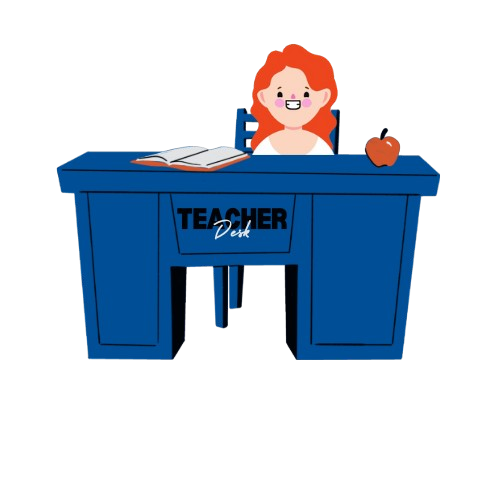
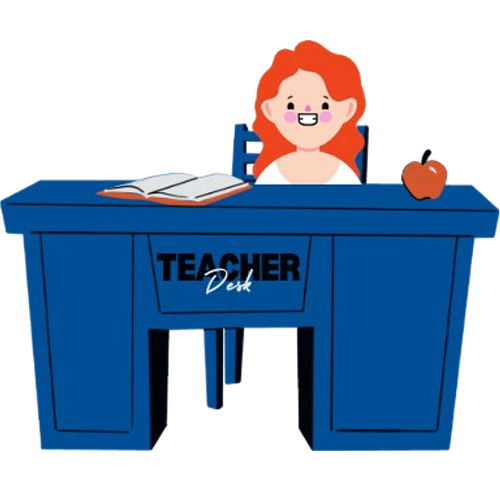
COrreção-Responsividade
Tentei arrumar a responsividade, mas o Header ficou menor e a escrita esta muito pra esquerda, estou ajustando ainda

diff --git a/app/home/page.tsx b/app/home/page.tsx
@@ -31,6 +31,7 @@ interface Item {
 const Home = () => {
   const router = useRouter();
   const [searchQuery, setSearchQuery] = useState("");
+  const [isSidebarOpen, setIsSidebarOpen] = useState(true);
 
   // Data atual formatada
   const currentDate = new Date().toLocaleDateString("pt-BR", {
@@ -41,15 +42,15 @@ const Home = () => {
   const userName = "Cris";
 
   const items: Item[] = [
-    { name: "Quizzes", icon: <FaQuestionCircle size={30} />, route: "/quizzes", description: "Crie Quizzes para seus alunos" },
-    { name: "Enquetes", icon: <FaPoll size={30} />, route: "/enquete", description: "Faça uma votação em sala de aula" },
-    { name: "Relatórios", icon: <FaFileAlt size={30} />, route: "/relatorios", description: "Gerencie participação com relatórios" },
-    { name: "Sorteador", icon: <FaRandom size={30} />, route: "/sorteador", description: "Sorteie grupos, alunos ou números" },
-    { name: "Tutoriais", icon: <FaChalkboardTeacher size={30} />, route: "/tutoriais", description: "Veja tutoriais disponíveis" },
-    { name: "Calendário", icon: <FaCalendarAlt size={30} />, route: "/calendario", description: "Gerencie compromissos" },
-    { name: "Modelos", icon: <FaTable size={30} />, route: "/modelos", description: "Acesse modelos personalizados" },
-    { name: "Bibliografia", icon: <FaBook size={30} />, route: "/bibliografia", description: "Adicione livros e sites" },
-    { name: "Diário de Plano de aulas", icon: <FaClipboardList size={30} />, route: "/plano-aulas", description: "Gerencie seu plano de aulas" }
+    { name: "Quizzes", icon: <FaQuestionCircle size={24} />, route: "/quizzes", description: "Crie Quizzes para seus alunos" },
+    { name: "Enquetes", icon: <FaPoll size={24} />, route: "/enquete", description: "Faça uma votação em sala de aula" },
+    { name: "Relatórios", icon: <FaFileAlt size={24} />, route: "/relatorios", description: "Gerencie participação com relatórios" },
+    { name: "Sorteador", icon: <FaRandom size={24} />, route: "/sorteador", description: "Sorteie grupos, alunos ou números" },
+    { name: "Tutoriais", icon: <FaChalkboardTeacher size={24} />, route: "/tutoriais", description: "Veja tutoriais disponíveis" },
+    { name: "Calendário", icon: <FaCalendarAlt size={24} />, route: "/calendario", description: "Gerencie compromissos" },
+    { name: "Modelos", icon: <FaTable size={24} />, route: "/modelos", description: "Acesse modelos personalizados" },
+    { name: "Bibliografia", icon: <FaBook size={24} />, route: "/bibliografia", description: "Adicione livros e sites" },
+    { name: "Diário de Plano de aulas", icon: <FaClipboardList size={24} />, route: "/plano-aulas", description: "Gerencie seu plano de aulas" }
   ];
 
   const handleSearch = (e: React.ChangeEvent<HTMLInputElement>) => {
@@ -64,34 +65,57 @@ const Home = () => {
     }
   };
 
+  const toggleSidebar = () => {
+    setIsSidebarOpen(!isSidebarOpen);
+  };
+
   const filteredItems = items.filter((item) =>
     item.name.toLowerCase().includes(searchQuery.toLowerCase())
   );
 
   return (
-    <div className="flex flex-col h-screen font-sans bg-gray-100 dark:bg-dark-primary">
+    <div className="flex flex-col min-h-screen h-screen max-h-screen font-sans bg-gray-100 dark:bg-dark-primary">
       <div className="flex flex-1">
-      <Sidebar /> {/* Sidebar fixa */}
+        {/* Botão toggle para sidebar em telas menores */}
+        <div className="md:hidden absolute top-4 left-4 z-10">
+          <button 
+            onClick={toggleSidebar}
+            className="p-2 bg-blue-500 text-white rounded-md"
+          >
+            {isSidebarOpen ? '←' : '→'}
+          </button>
+        </div>
+        
+        {/* Sidebar com visibilidade condicional em telas pequenas */}
+        <div className={`${isSidebarOpen ? 'block' : 'hidden'} md:block`}>
+          <Sidebar />
+        </div>
+        
         <div className="flex flex-col flex-1">
-          <div className="flex flex-col flex-1 gap-4 p-6">
+          <div className="flex flex-col h-full p-2 md:p-4">
             {/* Barra de pesquisa */}
-            <div className="ml-4">
-            <SearchBar searchQuery={searchQuery} onSearchChange={handleSearch} />
+            <div className="ml-0 md:ml-4 w-full mb-2">
+              <SearchBar searchQuery={searchQuery} onSearchChange={handleSearch} />
             </div>
-  
-            {/* Cabeçalho com boas-vindas */}
-            <Header 
-  date={currentDate}
-  title={`Bem-vinde, ${userName}!`}
-  buttonText="Tutorial TeacherDesk →"
-  buttonLink="/tutorial"
-/>
-  
-            {/* Grid de funcionalidades */}
-            <FeatureGrid items={filteredItems} onItemClick={handleItemClick} />
+            
+            {/* Cabeçalho com boas-vindas - altura reduzida */}
+            <div className="mb-2">
+              <Header 
+                date={currentDate}
+                title={`Bem-vinde, ${userName}!`}
+                buttonText="Tutorial TeacherDesk →"
+                buttonLink="/tutorial"
+              />
+            </div>
+            
+            {/* Grid sem scroll */}
+            <div className="flex-1 mb-2">
+              <FeatureGrid items={filteredItems} onItemClick={handleItemClick} />
+            </div>
           </div>
         </div>
       </div>
+      
       {/* Rodapé */}
       <Footer/>
     </div>

diff --git a/app/components/Header.tsx b/app/components/Header.tsx
@@ -8,7 +8,7 @@ interface HeaderProps {
   title?: string;
   buttonText?: string;
   buttonLink?: string;
-  imageSrc?: string; // Nova propriedade para imagem personalizada
+  imageSrc?: string;
 }
 
 const Header: React.FC<HeaderProps> = ({ date, title, buttonText, buttonLink, imageSrc }) => {
@@ -38,45 +38,48 @@ const Header: React.FC<HeaderProps> = ({ date, title, buttonText, buttonLink, im
   };
 
   return (
-    <div className="w-full max-w-8xl h-48 bg-[#5A9BF6] dark:bg-dark-primary p-10 rounded-2xl flex flex-col sm:flex-row items-center text-white shadow-lg relative">
-      <div className="flex-1 text-left space-y-4">
-        <p className="text-lg">{date}</p>
-        <h1 className="text-4xl font-bold">
+    <div className="w-full max-w-8xl h-auto min-h-[120px] md:min-h-[140px] bg-[#5A9BF6] dark:bg-dark-primary p-3 md:p-6 rounded-2xl flex flex-col sm:flex-row items-center text-white shadow-lg relative overflow-hidden">
+      
+      <div className="w-[60%] text-left space-y-1 md:space-y-2 z-10">
+        <p className="text-xs md:text-sm">{date}</p>
+        <h1 className="text-xl md:text-2xl font-bold">
           {title ? title.replace("{userName}", userName) : `Bem-vinde, ${userName}!`}
         </h1>
 
         <button
-          className="mt-4 bg-[#4A86E8] dark:bg-dark-accent px-10 py-3 rounded-xl text-white flex items-center gap-3 hover:bg-[#3B76D4] dark:hover:bg-blue-600"
+          className="mt-1 md:mt-2 bg-[#4A86E8] dark:bg-dark-accent px-3 md:px-6 py-1 md:py-2 rounded-lg text-white flex items-center gap-1 md:gap-2 hover:bg-[#3B76D4] dark:hover:bg-blue-600 text-xs md:text-sm"
           onClick={handleButtonClick}
         >
           {buttonText}
         </button>
       </div>
 
-      {/* Exibir imagem personalizada se existir */}
-    {/* Exibir imagem personalizada se existir, ou nada se imageSrc for null/undefined */}
-{imageSrc ? (
-  <img
-    src={imageSrc}
-    alt="Imagem personalizada"
-    className="absolute right-1/2 translate-x-1/2 bottom-0 h-full object-cover"
-  />
-) : title !== "Bibliografia" && (
-  // Imagens padrão do Header, exceto na página Bibliografia
-  <>
-    <img
-      src="/assets/avatar_ruiva.png"
-      alt="Avatar Ruiva"
-      className="absolute right-80 bottom-0 h-full object-cover"
-    />
-    <img
-      src="/assets/mesa_professora_ruiva.png"
-      alt="Mesa Teacher Desk"
-      className="absolute right-10 bottom-0 h-full object-cover translate-y-8"
-    />
-  </>
-)}
+      {/* Imagens apenas para desktop */}
+      <div className="hidden lg:block absolute inset-0 pointer-events-none">
+        {imageSrc ? (
+          <img
+            src={imageSrc}
+            alt="Imagem personalizada"
+            className="absolute right-10 bottom-[-20px] max-h-[160px] object-contain"
+          />
+        ) : title !== "Bibliografia" && (
+          <>
+            {/* Avatar centralizado */}
+            <img
+              src="/assets/avatar_ruiva.png"
+              alt="Avatar Ruiva"
+              className="absolute left-1/2 -translate-x-1/2 bottom-[-0px] max-h-[160px] object-contain"
+            />
 
+            {/* Mesa à direita */}
+            <img
+              src="/assets/mesa_professora_ruiva.png"
+              alt="Mesa Teacher Desk"
+              className="absolute right-10 bottom-[-10px] max-h-[160px] object-contain"
+            />
+          </>
+        )}
+      </div>
     </div>
   );
 };

diff --git a/app/components/FeatureCard.tsx b/app/components/FeatureCard.tsx
@@ -12,19 +12,19 @@ interface FeatureCardProps {
 const FeatureCard: React.FC<FeatureCardProps> = ({ name, icon, description, onClick }) => {
   return (
     <div
-      className="relative group bg-blue-200 dark:bg-dark-card py-3 px-10 rounded-lg text-center text-blue-800 dark:text-dark-text cursor-pointer hover:bg-blue-300 dark:hover:bg-dark-hover transition transform hover:scale-105"
+      className="relative group bg-blue-200 dark:bg-dark-card py-2 px-4 rounded-lg text-center text-blue-800 dark:text-dark-text cursor-pointer hover:bg-blue-300 dark:hover:bg-dark-hover transition transform hover:scale-105 flex flex-col items-center justify-center h-full"
       onClick={onClick}
     >
       {/* Tooltip não clicável */}
-      <span className="absolute bottom-full mb-2 left-1/2 transform -translate-x-1/2 text-sm bg-black text-white p-2 rounded opacity-0 group-hover:opacity-100 transition-opacity duration-300 pointer-events-none">
+      <span className="absolute bottom-full mb-2 left-1/2 transform -translate-x-1/2 text-sm bg-black text-white p-2 rounded opacity-0 group-hover:opacity-100 transition-opacity duration-300 pointer-events-none z-20">
         {description}
       </span>
 
-      <div className="mb-2 flex justify-center items-center h-12 dark:text-dark-accent">
+      <div className="mb-1 flex justify-center items-center h-8 md:h-10 dark:text-dark-accent">
         {icon}
       </div>
 
-      <p className="font-semibold">{name}</p>
+      <p className="font-semibold text-sm md:text-base">{name}</p>
     </div>
   );
 };

diff --git a/app/components/FeatureGrid.tsx b/app/components/FeatureGrid.tsx
@@ -17,7 +17,7 @@ interface FeatureGridProps {
 
 const FeatureGrid: React.FC<FeatureGridProps> = ({ items, onItemClick }) => {
   return (
-    <div className="grid grid-cols-3 gap-4 w-full">
+    <div className="grid grid-cols-2 md:grid-cols-3 gap-2 w-full h-full">
       {items.length > 0 ? (
         items.map((item, index) => (
           <FeatureCard
@@ -29,7 +29,7 @@ const FeatureGrid: React.FC<FeatureGridProps> = ({ items, onItemClick }) => {
           />
         ))
       ) : (
-        <p className="col-span-3 text-center text-gray-500">Nenhum item encontrado.</p>
+        <p className="col-span-2 md:col-span-3 text-center text-gray-500">Nenhum item encontrado.</p>
       )}
     </div>
   );
